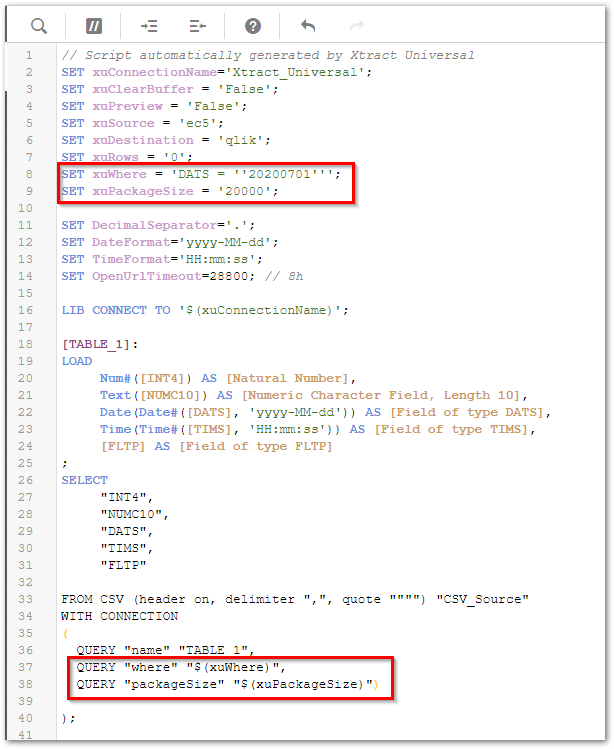
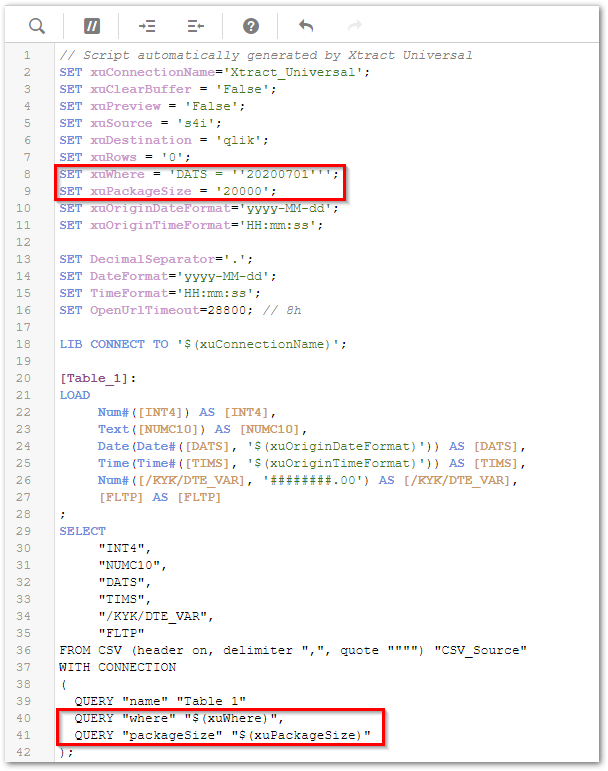
XU:EN:Qlik Destination

Changed region(s): [[0.0, 0.0307, 0.875, 1.0], [0.7188, 0.7984, 0.875, 0.8598], [0.6562, 0.8291, 0.6875, 0.8598]]

diff --git a/content/_en/xtract-universal/xu-destinations/qliksense-qlikview/settings-in-qlik-sense.md b/content/_en/xtract-universal/xu-destinations/qliksense-qlikview/settings-in-qlik-sense.md
@@ -39,7 +39,12 @@ Before copying the Qlik script generated by Xtract Universal to QlikSense, you n
 
 4. The QlikSense script supports usage of XU [Extraction Parameters](../../advanced-techniques/extraction-parameters). 
 
-  ![XU_qlik_QlikSense_XUParameter](/img/content/XU_qlik_QlikSense_XUParameter.png){:class="img-responsive"}
-  
-  ![XU_qlik_QlikSense_XUParameter_Log](/img/content/XU_qlik_QlikSense_XUParameter_Log.png){:class="img-responsive"}
+    ![XU_qlik_QlikSense_XUParameter](/img/content/XU_qlik_QlikSense_XUParameter.png){:class="img-responsive"}
+    
+    ![XU_qlik_QlikSense_XUParameter_Log2](/img/content/XU_qlik_QlikSense_XUParameter_Log2.png){:class="img-responsive"}
+
+
+5. 
+    {: .box-note }
+**Note**: Don't change the assigned value of variables *xuOriginDateFormat* and *xuOriginTimeFormat*. This is the format how Xtract Universal sends the data of date and time fields to QlikSense. Changing the format will stop the QlikSense script from running.
 
